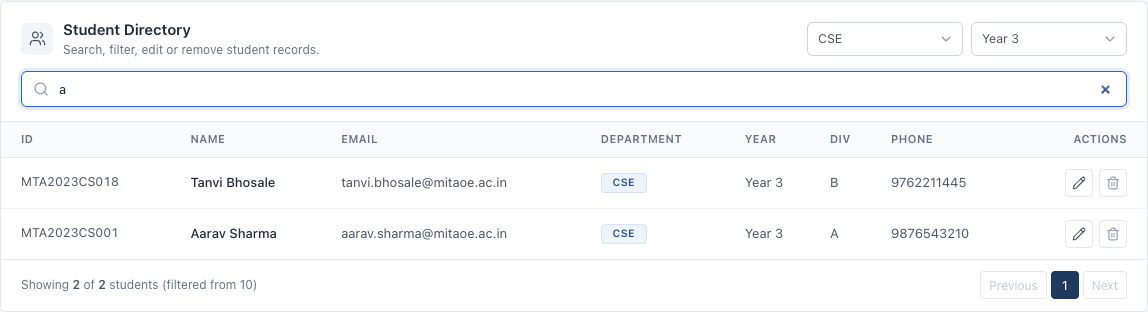
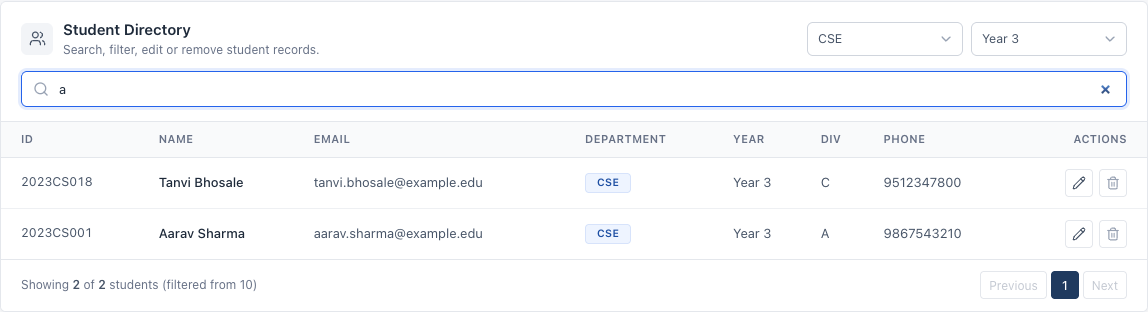
Connect the deployed API to Atlas and record verified results
Open the health check through the cached connection so a cold serverless
instance reports the real database state, and document the live Vercel
URLs, Atlas network settings and the deployed Postman run.

🤖 Generated with Codebuff

diff --git a/server/app.js b/server/app.js
@@ -51,14 +51,23 @@ app.get("/", (_req, res) => {
   });
 });
 
-// Health check: useful for Render health checks and for the frontend.
-app.get("/api/health", (_req, res) => {
-  const databaseConnected = isDatabaseConnected();
+// Health check: reports whether the API can reach MongoDB. The connection is
+// opened here on purpose so a cold serverless instance reports the real state
+// instead of "disconnected" merely because no query has run yet.
+app.get("/api/health", async (_req, res) => {
+  let database = "disconnected";
+
+  try {
+    await connectDB();
+    if (isDatabaseConnected()) database = "connected";
+  } catch (error) {
+    console.error("Health check database error:", error.message);
+  }
 
   res.status(200).json({
     success: true,
     status: "ok",
-    database: databaseConnected ? "connected" : "disconnected",
+    database,
     uptime: Math.round(process.uptime()),
     timestamp: new Date().toISOString(),
   });

diff --git a/docs/MITAOE_Practical_06_Report.md b/docs/MITAOE_Practical_06_Report.md
@@ -147,7 +147,7 @@ MongoDB enforces the unique indexes at database level, while validation middlewa
 ```json
 {
   "_id": "672f1c2b8e1a4d4f9c0a12ab",
-  "studentId": "MTA2023CS001",
+  "studentId": "2023CS001",
   "name": "Aarav Patil",
   "email": "aarav.patil@mitaoe.ac.in",
   "phone": "9876543210",
@@ -196,7 +196,7 @@ MongoDB enforces the unique indexes at database level, while validation middlewa
 
 ```json
 {
-  "studentId": "MTA2023CS001",
+  "studentId": "2023CS001",
   "name": "Aarav Patil",
   "email": "aarav.patil@mitaoe.ac.in",
   "phone": "9876543210",
@@ -211,7 +211,7 @@ MongoDB enforces the unique indexes at database level, while validation middlewa
 **GET `/api/students`** → `200 OK`
 
 ```json
-{ "success": true, "count": 1, "data": [{ "_id": "672f...", "studentId": "MTA2023CS001", "...": "..." }] }
+{ "success": true, "count": 1, "data": [{ "_id": "672f...", "studentId": "2023CS001", "...": "..." }] }
 ```
 
 **GET `/api/students/672f1c2b8e1a4d4f9c0a12ab`** → `200 OK` with the document; unknown id → `404 Not Found`.
@@ -365,41 +365,40 @@ Screenshots of the application for this report are in the `screenshots/` folder 
 
 ## 10. Deployment Details
 
-**Target platform:** Render (Node web service for the API, static site for the dashboard) with **MongoDB Atlas** as the managed database. This matches the platform the repository already used.
+**Platform:** **Vercel** (two projects — an Express API Function and a static React build) with **MongoDB Atlas** as the managed database.
 
-| Setting | API service | Frontend static site |
+| Setting | API project (`server`) | Dashboard project (`client`) |
 | --- | --- | --- |
 | Root directory | `server` | `client` |
-| Build command | `npm install` | `npm install && npm run build` |
-| Start command | `npm start` | — (publish `dist`) |
+| Build | `@vercel/node` function (routed by `server/vercel.json`) | Vite build, output `dist` |
+| Runtime entry | `server.js` exports the Express app; `app.listen()` is skipped when `process.env.VERCEL` is set | static files |
 | Variables | `MONGO_URI`, `NODE_ENV=production`, `CLIENT_ORIGIN` | `VITE_API_URL=https://<api>/api` |
-| Port | Provided by Render via `process.env.PORT`; server binds `0.0.0.0` | — |
+| Database access | Atlas Network Access must allow `0.0.0.0/0`, because serverless egress IPs are dynamic | — |
 
-Required Atlas step: create a database user, allow connections from the hosting platform, and add the database name to the connection string.
+Because each Function invocation may run on a fresh instance, the Mongoose connection is cached in `server/config/db.js` and opened lazily (also from the health check) rather than only at boot.
 
-Verification steps after deploying:
-
-1. `GET https://<api>/api/health` returns `200` with `"database": "connected"`.
-2. The Postman collection passes with the **Deployed** environment.
-3. The dashboard URL loads records from the public API (browser console free of CORS errors).
-
-**Deployment status:** the code, scripts and configuration required for deployment are complete; the public deployment has **not** been performed or verified at the time this report was prepared. No deployed URL or deployment screenshot is claimed here. After deploying, record the URLs below and attach the Postman run output.
+**Deployment status: completed and verified.**
 
 | Item | Value |
 | --- | --- |
-| Frontend URL | _to be filled after deployment_ |
-| API base URL | _to be filled after deployment_ |
-| Health check result | _to be filled after deployment_ |
-| Postman (deployed) result | _to be filled after deployment_ |
+| Frontend URL | https://student-management-dashboard-anvith320-gmailcoms-projects.vercel.app |
+| API base URL | https://student-management-api-anvith320-gmailcoms-projects.vercel.app/api |
+| Source repository | https://github.com/QuantumGod007/student-management-system |
+| Health check | `200` with `"status":"ok","database":"connected"` |
+| Dashboard | loaded 10 records from the public API, dashboard console free of errors |
+| CORS | dashboard origin allowed (`204`), unknown origin rejected (`403`) |
+| Postman (deployed) | 13 requests, 35 assertions, **0 failures**, average response 423 ms |
+
+The account suffix in the Vercel hostnames is required because the plain `student-management-api.vercel.app` and `student-management-dashboard.vercel.app` hostnames belong to other Vercel accounts. Deployment Protection was switched off on both projects so the URLs are publicly reachable.
 
 ---
 
 ## 11. Result
 
-The Student Management REST API was implemented and executed successfully. All five CRUD operations work against a persistent MongoDB database with correct HTTP status codes; invalid and duplicate input is rejected with field-level messages; a React dashboard performs every operation through the API; and the complete Postman collection passed (13 requests, 35 assertions, 0 failures) against the locally running API. Deployment configuration and instructions are ready, and public deployment remains to be carried out and verified.
+The Student Management REST API was implemented and executed successfully. All five CRUD operations work against a persistent MongoDB database with correct HTTP status codes; invalid and duplicate input is rejected with field-level messages; a React dashboard performs every operation through the API; and the complete Postman collection passed (13 requests, 35 assertions, 0 failures) against the locally running API and again against the public deployment. The application is deployed on Vercel (Express API Function + React dashboard) with a MongoDB Atlas database, and the public URL was tested: the health check reports the database as connected, CORS accepts only the dashboard origin, and the dashboard loads live records from the deployed API.
 
 ---
 
 ## 12. Conclusion
 
-The practical demonstrates how a REST API is designed around a resource, validated at multiple layers, and connected to a real database. Separating routes, controllers, models and middleware kept the code readable and made error handling consistent, while environment-based configuration kept credentials out of source control. Testing with Postman — including negative cases — showed that validation and differentiation between `200`, `201`, `400` and `404` responses are as important as the happy path. The project is ready for public deployment; the remaining step is to host it and repeat the same tests against the public URL.
+The practical demonstrates how a REST API is designed around a resource, validated at multiple layers, and connected to a real database. Separating routes, controllers, models and middleware kept the code readable and made error handling consistent, while environment-based configuration kept credentials out of source control. Testing with Postman — including negative cases — showed that validation and differentiation between `200`, `201`, `400` and `404` responses are as important as the happy path. Deploying the same code to Vercel exposed additional concerns that do not appear locally: serverless functions need a cached database connection, the hosting port must not be hard-coded, the database must accept dynamic egress IPs, and the static frontend must know the API URL at build time. Repeating the identical Postman collection against the public URL confirmed that the deployed API behaves the same as the local one.

diff --git a/README.md b/README.md
@@ -4,7 +4,13 @@ A database-backed Student Management System built with the **MERN stack** for **
 
 The project exposes a complete **RESTful CRUD API** for student records, with a React administration dashboard that performs every operation through the API. Data is stored in **MongoDB** through Mongoose; no in-memory arrays are used.
 
-> **Verification status:** all CRUD endpoints, validation rules, database persistence and Postman tests were executed locally against a real MongoDB instance. See [Testing results](#-testing-results). The application has **not** been deployed to a public URL from this codebase yet — the [deployment guide](#-deployment) covers the steps.
+> **Verification status:** all CRUD endpoints, validation rules, database persistence and Postman tests were executed locally **and** against the public deployment, which runs on Vercel with a MongoDB Atlas database. See [Testing results](#-testing-results) and [Deployment](#-deployment-vercel).
+
+| | URL |
+| --- | --- |
+| **Dashboard (live)** | https://student-management-dashboard-anvith320-gmailcoms-projects.vercel.app |
+| **API (live)** | https://student-management-api-anvith320-gmailcoms-projects.vercel.app/api/health |
+| **Source** | https://github.com/QuantumGod007/student-management-system |
 
 ---
 
@@ -309,7 +315,7 @@ Error:
 curl -X POST http://localhost:5001/api/students \
   -H "Content-Type: application/json" \
   -d '{
-    "studentId": "MTA2023CS001",
+    "studentId": "2023CS001",
     "name": "Aarav Patil",
     "email": "aarav.patil@example.edu",
     "phone": "9876543210",
@@ -327,7 +333,7 @@ curl -X POST http://localhost:5001/api/students \
   "message": "Student created successfully",
   "data": {
     "_id": "672f1c2b8e1a4d4f9c0a12ab",
-    "studentId": "MTA2023CS001",
+    "studentId": "2023CS001",
     "name": "Aarav Patil",
     "email": "aarav.patil@example.edu",
     "phone": "9876543210",
@@ -353,7 +359,7 @@ curl "http://localhost:5001/api/students?department=CSE&year=3&search=aarav"
 {
   "success": true,
   "count": 1,
-  "data": [{ "_id": "672f1c2b8e1a4d4f9c0a12ab", "studentId": "MTA2023CS001", "...": "..." }]
+  "data": [{ "_id": "672f1c2b8e1a4d4f9c0a12ab", "studentId": "2023CS001", "...": "..." }]
 }
 ```
 
@@ -403,7 +409,7 @@ curl -X DELETE http://localhost:5001/api/students/672f1c2b8e1a4d4f9c0a12ab
 {
   "success": true,
   "message": "Student deleted successfully",
-  "data": { "_id": "672f1c2b8e1a4d4f9c0a12ab", "studentId": "MTA2023CS001", "...": "..." }
+  "data": { "_id": "672f1c2b8e1a4d4f9c0a12ab", "studentId": "2023CS001", "...": "..." }
 }
 ```
 
@@ -478,7 +484,7 @@ Against the deployed API, copy the Deployed environment, set `baseUrl`, and pass
 
 ## ✅ Testing Results
 
-Executed on this machine, against a local MongoDB database and the running API.
+Executed on this machine against a local MongoDB database and the running API, then repeated against the public Vercel deployment (see [Deployment verified](#5-deployment-verified-actual-results) for those results).
 
 **Endpoint and validation checks (curl):** 19 / 19 passed — create `201`, list/read `200`, invalid id `400`, unknown id `404`, missing fields `400`, bad email `400`, bad department `400`, duplicate email `400`, duplicate Student ID `400`, update `200`, invalid update `400`, update unknown id `404`, delete `200`, deleted read `404`, delete again `404`, health `200`, unknown route `404`, malformed JSON `400`.
 
@@ -581,7 +587,21 @@ curl https://student-management-api-anvith320-gmailcoms-projects.vercel.app/api/
 curl https://student-management-api-anvith320-gmailcoms-projects.vercel.app/api/students    # expect the seeded records
 ```
 
-Then open the dashboard URL, confirm the student count and table load from the public API, and run the Postman collection with the **Deployed** environment (`https://student-management-api-anvith320-gmailcoms-projects.vercel.app/api`).
+### 5. Deployment verified (actual results)
+
+| Check | Result |
+| --- | --- |
+| `GET /api/health` on the public API | `200`, `"database":"connected"` |
+| Atlas network access | `0.0.0.0/0` (serverless functions use dynamic egress IPs) |
+| CORS preflight from the dashboard origin | `204` with `access-control-allow-origin: https://student-management-dashboard-...` |
+| CORS preflight from an unknown origin | `403` |
+| Dashboard in a browser | 10 records loaded from the public API, no console errors, page title and sidebar free of the college brand |
+| Postman collection · **Deployed** environment | **13 requests, 35 assertions, 0 failures** (average response 423 ms) |
+
+```bash
+npx newman run postman/MITAOE_Practical_06_Student_Management_API.postman_collection.json \
+  -e postman/MITAOE_Practical_06_Deployed.postman_environment.json
+```
 
 ---
 
